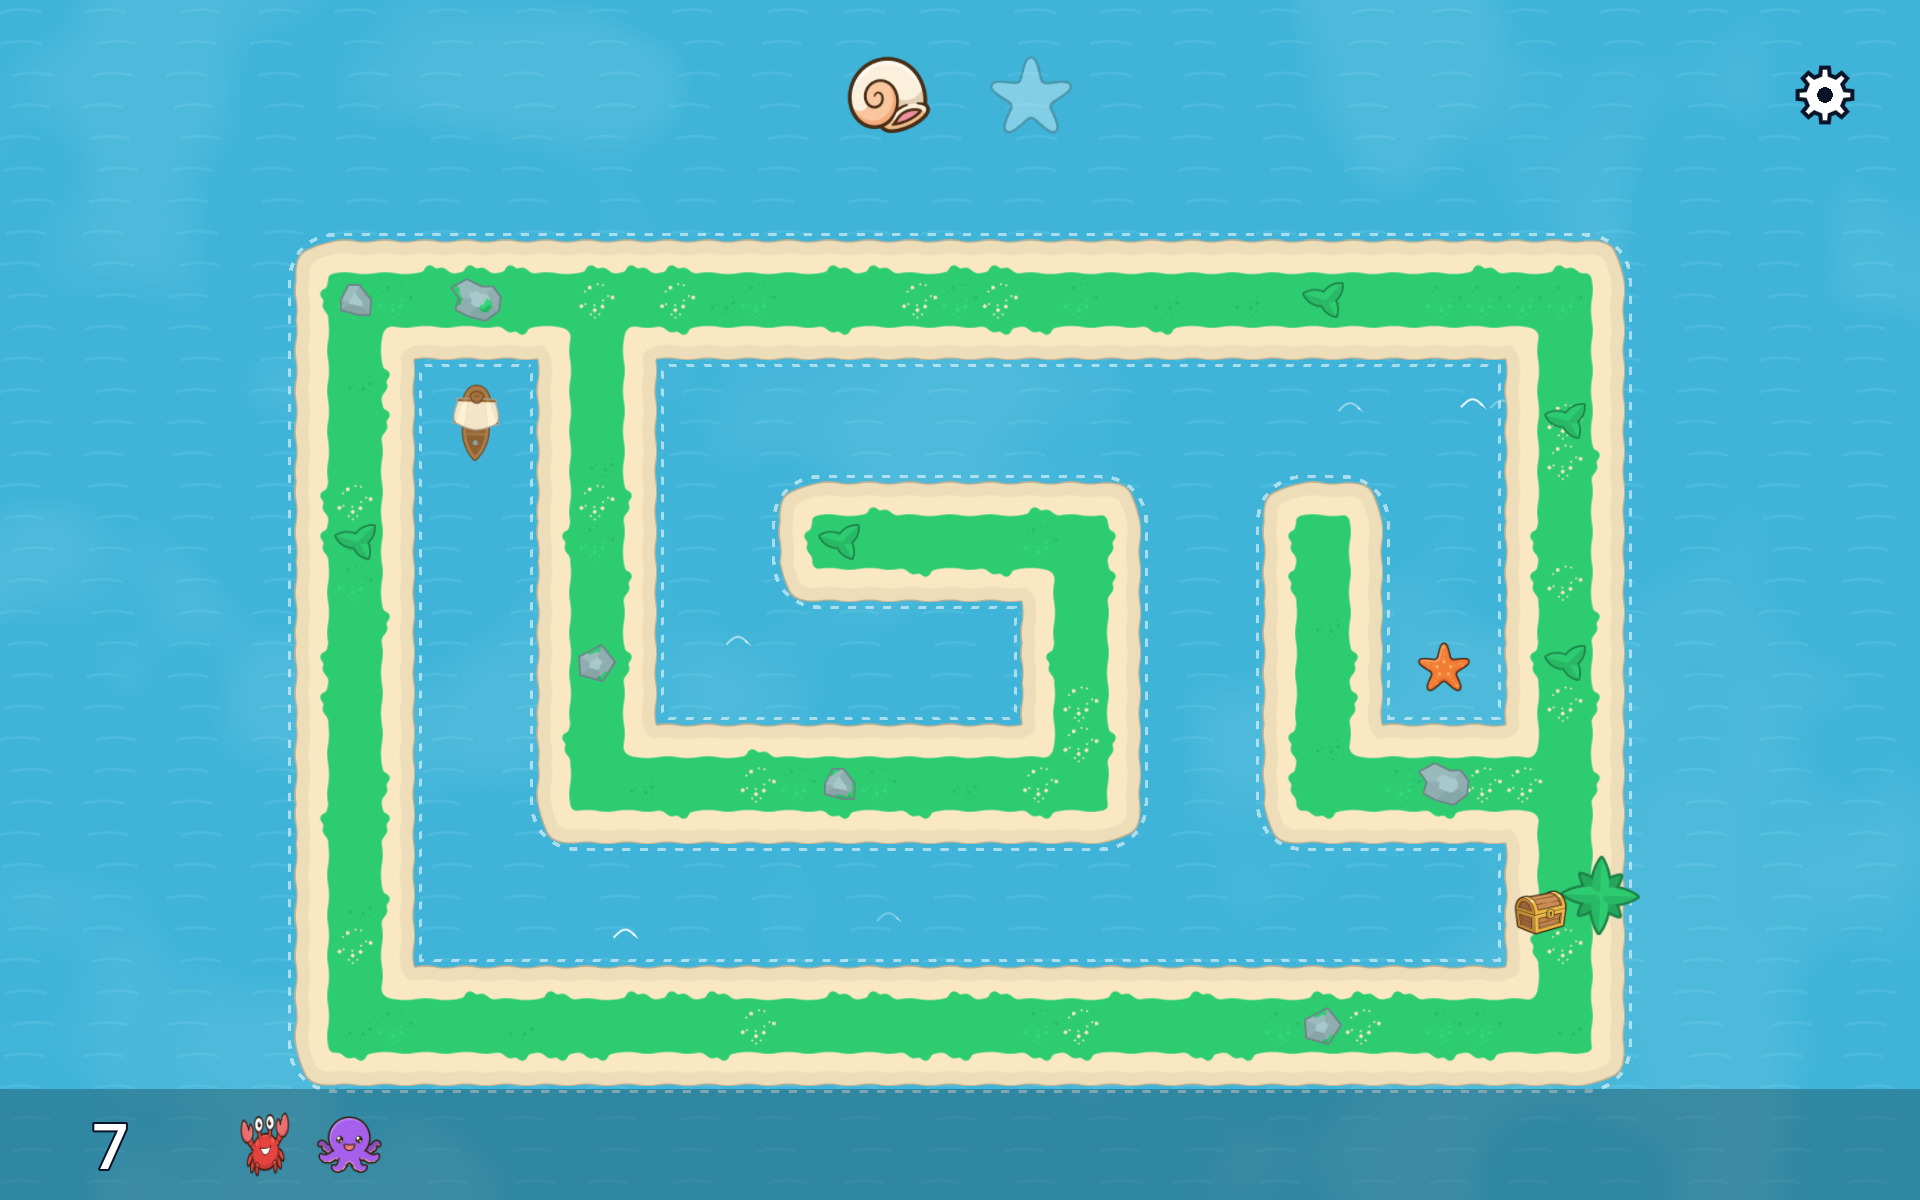
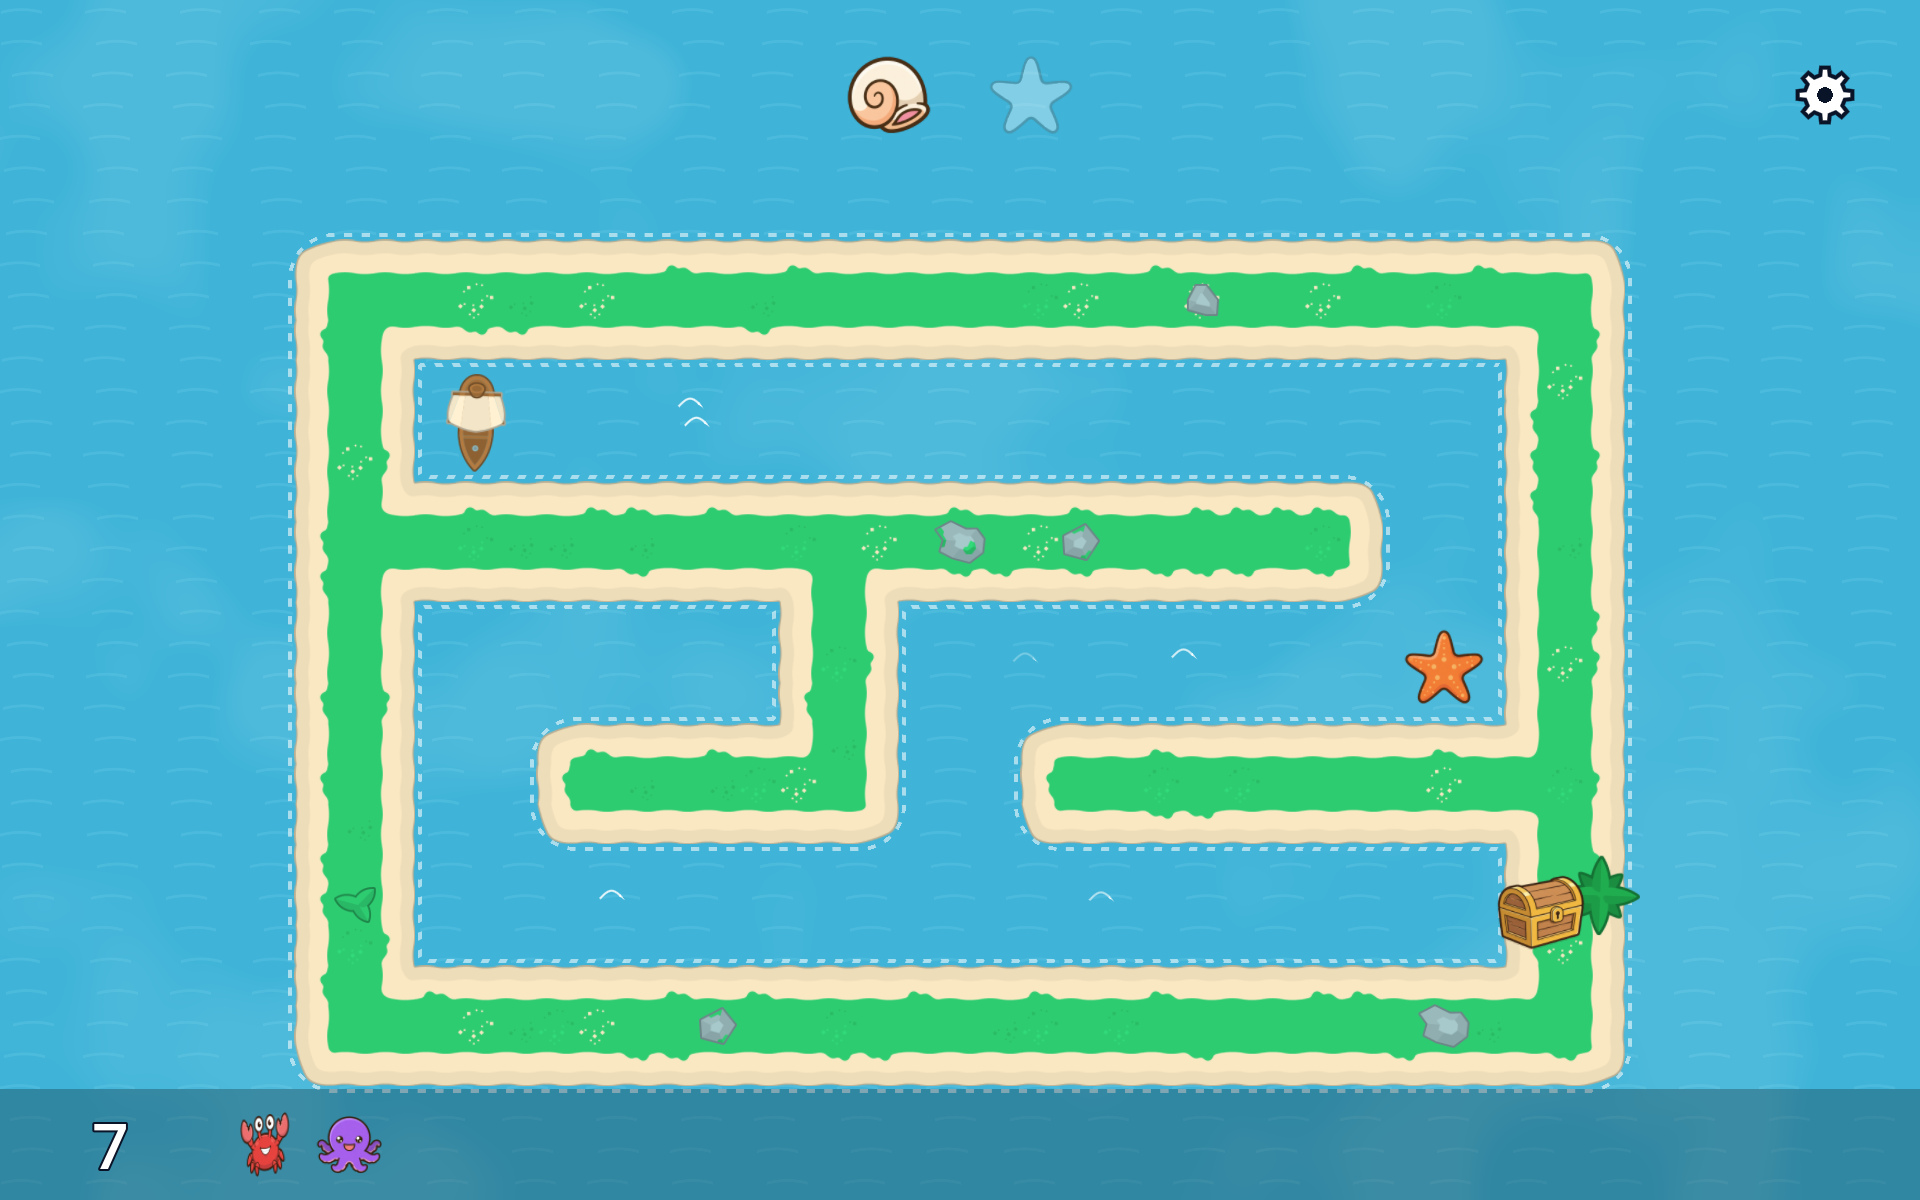
Final check (ticket 08): new screenshots of Labyrinths 3, 8, 13 and 18 and of the settings panel, check results in the ticket, the spec build report, and a ticket 30 comment for the Parent check

diff --git a/.scratch/play-improvements/issues/08-final-check.md b/.scratch/play-improvements/issues/08-final-check.md
@@ -6,9 +6,27 @@
 
 **Status:** ready-for-agent
 
-- [ ] The full headless test suite passes, with exit code 0.
-- [ ] The windowed smoke run prints `SMOKE OK`.
-- [ ] The screenshot tool makes new screenshots of Labyrinths 3, 8, 13 and 18 and of the settings panel.
-- [ ] In the screenshots, the boat stays inside the channel, the chest is easy to see, and no Item covers an island. The ticket comment records each result.
-- [ ] Ticket 30 of the labyrinth-game map gets a comment: do the Parent manual check again, because the layout of each Labyrinth, the sizes and the reset hold changed.
-- [ ] The play-improvements spec gets a short build report under a `## Comments` heading: what passed and what needs a person.
+- [x] The full headless test suite passes, with exit code 0.
+- [x] The windowed smoke run prints `SMOKE OK`.
+- [x] The screenshot tool makes new screenshots of Labyrinths 3, 8, 13 and 18 and of the settings panel.
+- [x] In the screenshots, the boat stays inside the channel, the chest is easy to see, and no Item covers an island. The ticket comment records each result.
+- [x] Ticket 30 of the labyrinth-game map gets a comment: do the Parent manual check again, because the layout of each Labyrinth, the sizes and the reset hold changed.
+- [x] The play-improvements spec gets a short build report under a `## Comments` heading: what passed and what needs a person.
+
+## Comments
+
+**Final check (agent Impl08FinalCheck, branch `pi/08-final-check`, 2026-11-04).** All runs are on the integration tip of tickets 01 to 07.
+
+- Test suite: `godot --headless --path . --script res://tests/run.gd` prints `Results: 14368 passed, 0 failed`. Exit code 0. The `WARNING:` lines with backtraces come from the tests of newer saves and of the no-write state. They are expected.
+- Python port: `python3 tests/spec_port.py` exits with code 0.
+- Smoke run: `godot --path . --windowed --script res://tools/smoke_run.gd` prints `SMOKE OK: 3 Goals, no failure`. Exit code 0.
+- Screenshot tool: `godot --path . --windowed --script res://tools/take_shots.gd` writes 6 new files to `shots/`: `area1.png` (Labyrinth 3), `area2.png` (Labyrinth 8), `area3.png` (Labyrinth 13), `area4.png` (Labyrinth 18), `area1-1920x1247.png` (Labyrinth 3), and `settings.png`. Exit code 0. The list of the tool already held Labyrinths 3, 8, 13 and 18. The only change to the tool: its header said that the settings shot holds the reset for 1.5 s, but since ticket 02 it holds the reset for half of its hold time (4 s). The header now says this.
+- Look of each screenshot:
+  - Labyrinth 3 (1920 × 1200): the boat is inside the channel. Its bow and its stern touch the two foam lines of the start square, but they do not go onto the sand. The chest is easy to see. No Item covers an island.
+  - Labyrinth 8 (1920 × 1200): the boat is inside the channel. The chest is easy to see. The two sand dollars and the coral are on the water. No Item covers an island.
+  - Labyrinth 13 (1920 × 1200): the boat is inside the channel. The chest is smaller but easy to see, gold on green. The shells and the crystals are on the water. No Item covers an island.
+  - Labyrinth 18 (1920 × 1200): the boat (smallest tiles) is inside the channel. The chest is small but easy to see, gold on green. All stars are on the water. No Item covers an island.
+  - Labyrinth 3 (1920 × 1247): same result as Labyrinth 3 at 1920 × 1200.
+  - Settings: the panel is open, and the reset ring is orange and half full (4 s of 8 s). The panel does not hide the gear.
+- Chest edge (note of ticket 04): in all four Labyrinths, the left edge of the chest goes over the sand of the Goal island and onto the foam line of the Goal square. It touches the water a little. The chest also hides the left fronds of the palm. It looks like the chest stands on the shore, and it does not hide the boat path. A person must decide if this is correct.
+- Not checked: a screenshot shows the boat only at the start, so it does not show the boat when it turns. The boat is 85 % of a tile long, so it is shorter than a tile in each direction, but a person must look at a turn in a real game. The sounds (fanfare under the crab sound) and the 8 s reset hold on screen need a person. Ticket 30 of the labyrinth-game map has the list.

diff --git a/.scratch/play-improvements/spec.md b/.scratch/play-improvements/spec.md
@@ -231,3 +231,21 @@ The game is complete and follows its build spec, but the review found five probl
 - At the new sizes, an Item is 69 % of a tile and the boat is 85 % of a tile long. The review checked no overlap with the islands. The build must look at the screenshots to confirm that the boat stays inside the channel when it turns.
 - The Parent must do the manual check of ticket 30 of the labyrinth-game map after this change, because the layout of each Labyrinth changes.
 - Time estimate for an agent: part 1 about 1.5 h, part 2 about 2.5 h, part 3 about 3 h, part 4 about 1 h, part 5 about 3 h.
+
+## Comments
+
+**Build report (ticket 08, 2026-11-04).** Tickets 01 to 07 are merged.
+
+Passed:
+- The full headless test suite: `Results: 14368 passed, 0 failed`, exit code 0.
+- The Python port `tests/spec_port.py`: exit code 0.
+- The windowed smoke run: `SMOKE OK: 3 Goals, no failure`.
+- The screenshot tool made new screenshots of Labyrinths 3, 8, 13 and 18 and of the settings panel. In each screenshot, the boat is inside the channel, the chest is easy to see, and no Item covers an island.
+
+Needs a person:
+- The chest edge: the left edge of the 100 px chest goes over the sand onto the foam line of the Goal square, and the chest hides the left fronds of the palm.
+- The boat in a turn: the screenshots show the boat only at the start.
+- The sound: the Sea friend sound must be clear over the ducked fanfare.
+- The 8 s reset hold and its orange ring on screen.
+- The Parent manual check of labyrinth-game ticket 30, again, because the layouts, the sizes and the reset hold changed. Ticket 30 has a comment with the changed steps.
+- Build spec text that still has old values (from the notes of tickets 02 and 07): section 14.3 check 10 and section 15 criterion 17 say a reset hold of 3 s, and section 4.6 rule 7 says that a test checks that seeds 1 to 20 are valid.

diff --git a/.scratch/labyrinth-game/issues/30-parent-manual-check.md b/.scratch/labyrinth-game/issues/30-parent-manual-check.md
@@ -91,3 +91,12 @@ NOTE: Do these steps after the Goal fix. The Goal fix changes the shape of each 
     - In the build report, write the result of each item of spec 14.3.
 
 **Parent decision (2026-11-04):** the Parent accepted the Sea friend position. It shows on the right side of the Goal island, and it hides the palm for approximately 2 seconds. Cmd+Q stays blocked: the door button is the only quit path. The Parent also checked that Cmd+Q does nothing and that the 3-second door hold quits the game.
+
+**From play-improvements ticket 08 (agent final check, 2026-11-04).** Do the full manual check of this ticket again. The play improvements changed the layout of each Labyrinth except Labyrinth 1, the sizes of the Items, the boat and the chest, and the reset hold. Use these changes in the steps above:
+
+- Step 7 (criterion 17): the reset hold is now 8 seconds, not 3 seconds. Hold the reset button for less than 8 seconds and make sure that nothing occurs. Then hold it for 8 seconds. The ring becomes orange. After the reset, a copy of the old save is in `save.before-reset.json` in the save folder.
+- Step 8 (criterion 18): the door hold stays 3 seconds.
+- Step 2 (criterion 8): the Items are larger, and some Items are on the main path to the Goal. Make sure that the boat can get to each Item.
+- Step 3 (criterion 9): the chest is larger and sparkles before it opens. Its left edge goes onto the foam line of the Goal square. Make sure that this looks correct. Listen at a Goal: the Sea friend sound must be clear over the fanfare.
+- When the boat turns, make sure that it stays inside the channel, in a small Labyrinth and in a large Labyrinth (for example Labyrinth 18).
+- Make sure that the difficulty goes up slowly from Labyrinth 1 to Labyrinth 20.
